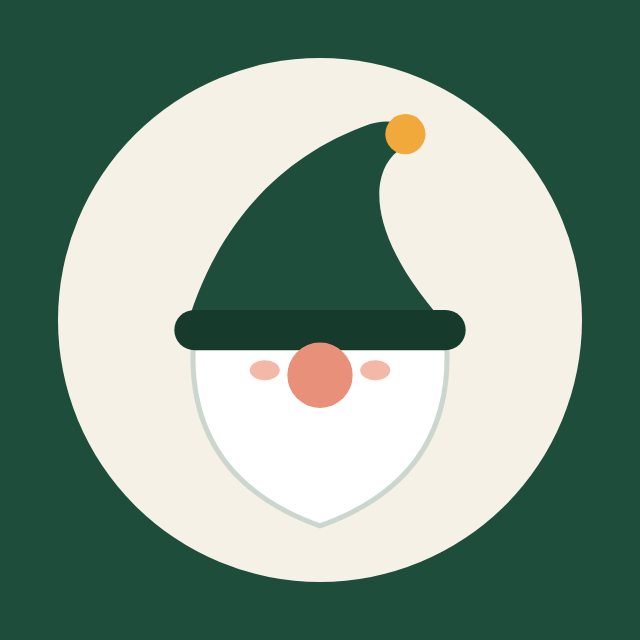
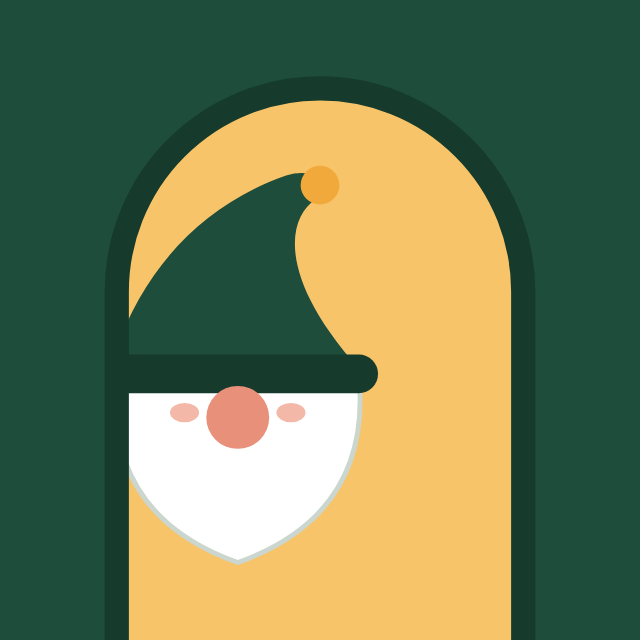
Логотип: домовик визирає з освітлених дверей
Світле коло прибрано — борода зливалась із ним на малих розмірах. Тепер
на зеленій плитці арка дверей з теплим світлом, у прорізі — той самий
маскот (видно кінчик ковпака з помпоном і низ бороди, лівий край — за
одвірком). Оновлено app-icon, logo-mark, аватар бота (PNG 640×640) і
опис бренду в CLAUDE.md.

diff --git a/CLAUDE.md b/CLAUDE.md
@@ -132,7 +132,7 @@ uv run python -m domovyk.interfaces.api.export_openapi > web/openapi.json && pnp
 ## Бренд і голос
 
 - Назва: **Домовик** (латиницею Domovyk). Пакет Python — `domovyk`.
-- Логотип — голова маскота (`logo-mark.svg`): зелений ковпак із загнутим кінчиком і бурштиновим помпоном, темно-зелена смуга, біла борода, рум'янець і ніс. Іконка застосунку (`app-icon.svg`) і аватар бота (`bot-avatar.svg` → `bot-avatar.png`, 640×640) — та сама голова на кремовому колі (#F6F1E7) на зеленому тлі. Знак-ключ більше не використовуємо.
+- Логотип — домовик визирає з освітлених дверей (`logo-mark.svg` = `app-icon.svg`): зелена плитка, арка дверей з теплим бурштиновим світлом (#F7C46A) і темно-зеленим одвірком; у прорізі — голова маскота без змін (зелений ковпак з помпоном, біла борода), видно кінчик ковпака й низ бороди, лівий край ховається за одвірком. Аватар бота — `bot-avatar.svg` → `bot-avatar.png` (640×640, двері донизу, вміщається в круглу обрізку). Знак-ключ і світле коло більше не використовуємо.
 - Маскот — гном-домовик (варіант C): високий ковпак з помпоном, очі сховані під ковпаком, біла борода. Базова поза — махає рукою (ключа немає ніде); ліхтарик — окрема поза (турбота, світло, блекаути). Персонаж оригінальний.
 - Кольори: зелений #1E4D3B (основний), темно-зелений #163A2C, бурштиновий #F2A93B (акцент). Шрифти: Unbounded (заголовки, логотип), Manrope (текст).
 - Голос (бот і Mini App): від імені Домовика, тепло, коротко, по-людськи, на «ти» або нейтрально. Без канцеляриту і без жартів у критичних повідомленнях (прострочення, скарги, бани, юридичні моменти — там спокійно і чітко).
